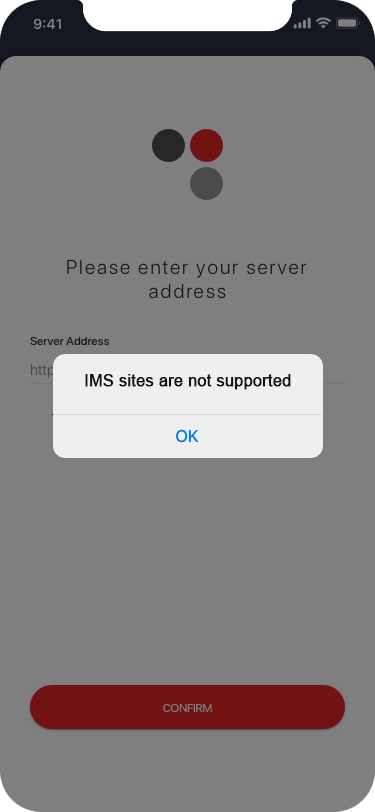
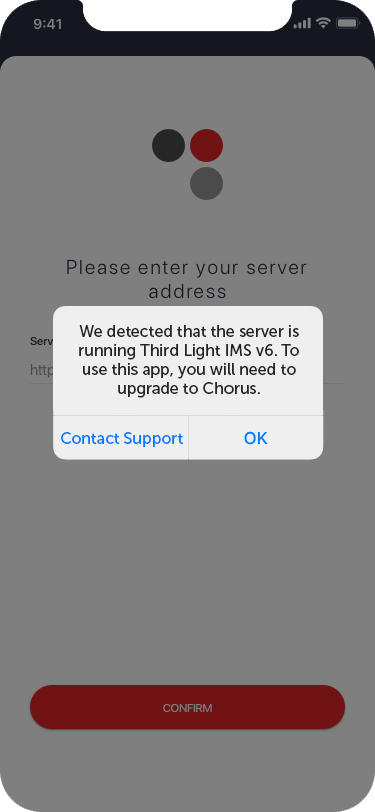
Update wording in message for v6 customers. Add Contact Support button.

Changed region(s): [[0.1173, 0.3695, 0.88, 0.4926], [0.1467, 0.5234, 0.528, 0.5542], [0.6453, 0.5234, 0.704, 0.5542]]

diff --git a/js/app.js b/js/app.js
@@ -2,13 +2,14 @@ App = angular.module('myApp', [])
 
 
 App.controller("mainCtrl", [
+	"$window",
     "$scope",
 	"$q",
 	"$timeout",
 	"$http",
 	"api",
 	"loadFile",
-    function($scope, $q, $timeout, $http, API, LoadFile) {
+    function($window, $scope, $q, $timeout, $http, API, LoadFile) {
 
 		var API_KEY_LABEL = "mobileapp-proto"
 		var CLIENT_ID = "79dc8e45-ffa1-4219-87ee-a4eaaea24230"
@@ -268,6 +269,9 @@ App.controller("mainCtrl", [
 				return
 			})
 
+		}
+		$scope.sendSupportEmail = function() {
+			$window.open('mailto:support@thirdlight.com', "_self")
 		}
 		$scope.clearEnterServerError = function() {
 			$scope.viewstate = "enter-server"

diff --git a/index.html b/index.html
@@ -27,7 +27,9 @@
 					<img ng-click="clearEnterServerError()" src="img/1.2 Incorect Server Address Modal.png">
 				</div>
 				<div ng-if="viewstate=='enter-server-api-nojoy'">
-					<img ng-click="clearEnterServerError()" src="img/1.2 Client Not Supported.png">
+					<img src="img/1.2 Client Not Supported copy.png">
+					<div ng-click="sendSupportEmail()" style="position:absolute;left:56px;width:130px;height:43px;top:416px;"></div>
+					<div ng-click="clearEnterServerError()" style="position:absolute;left:210px;width:90px;height:43px;top:416px;"></div>
 				</div>
 				<div ng-if="viewstate=='login'">
 					<img src="img/1.3 Login.png">
